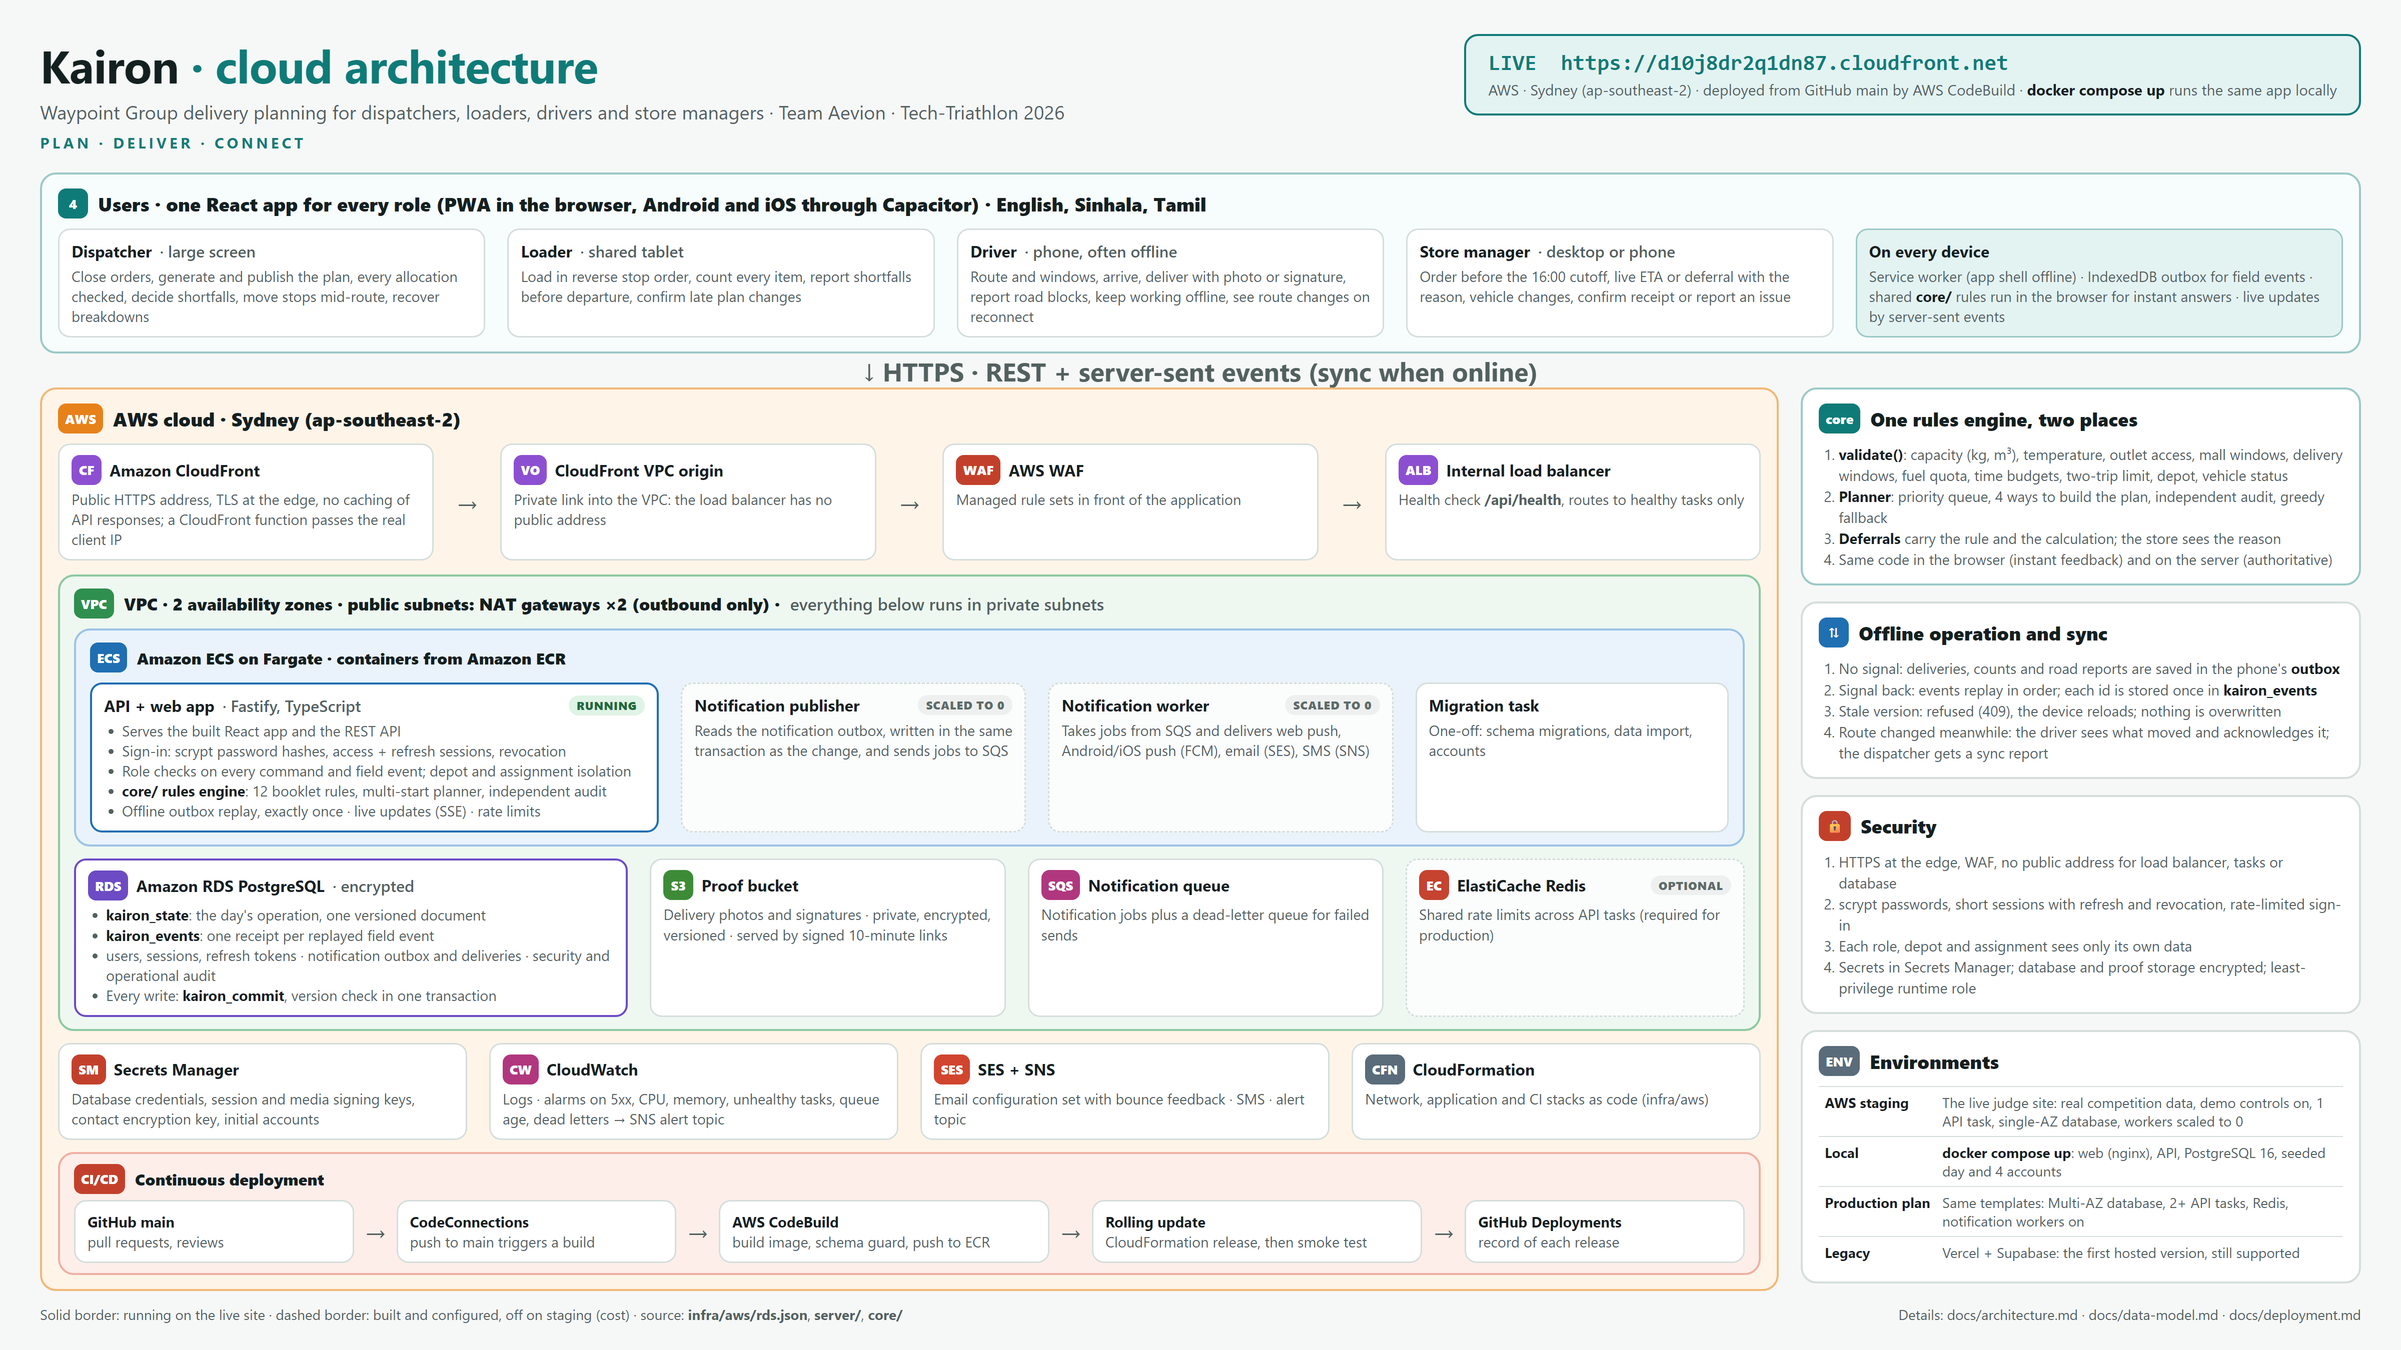
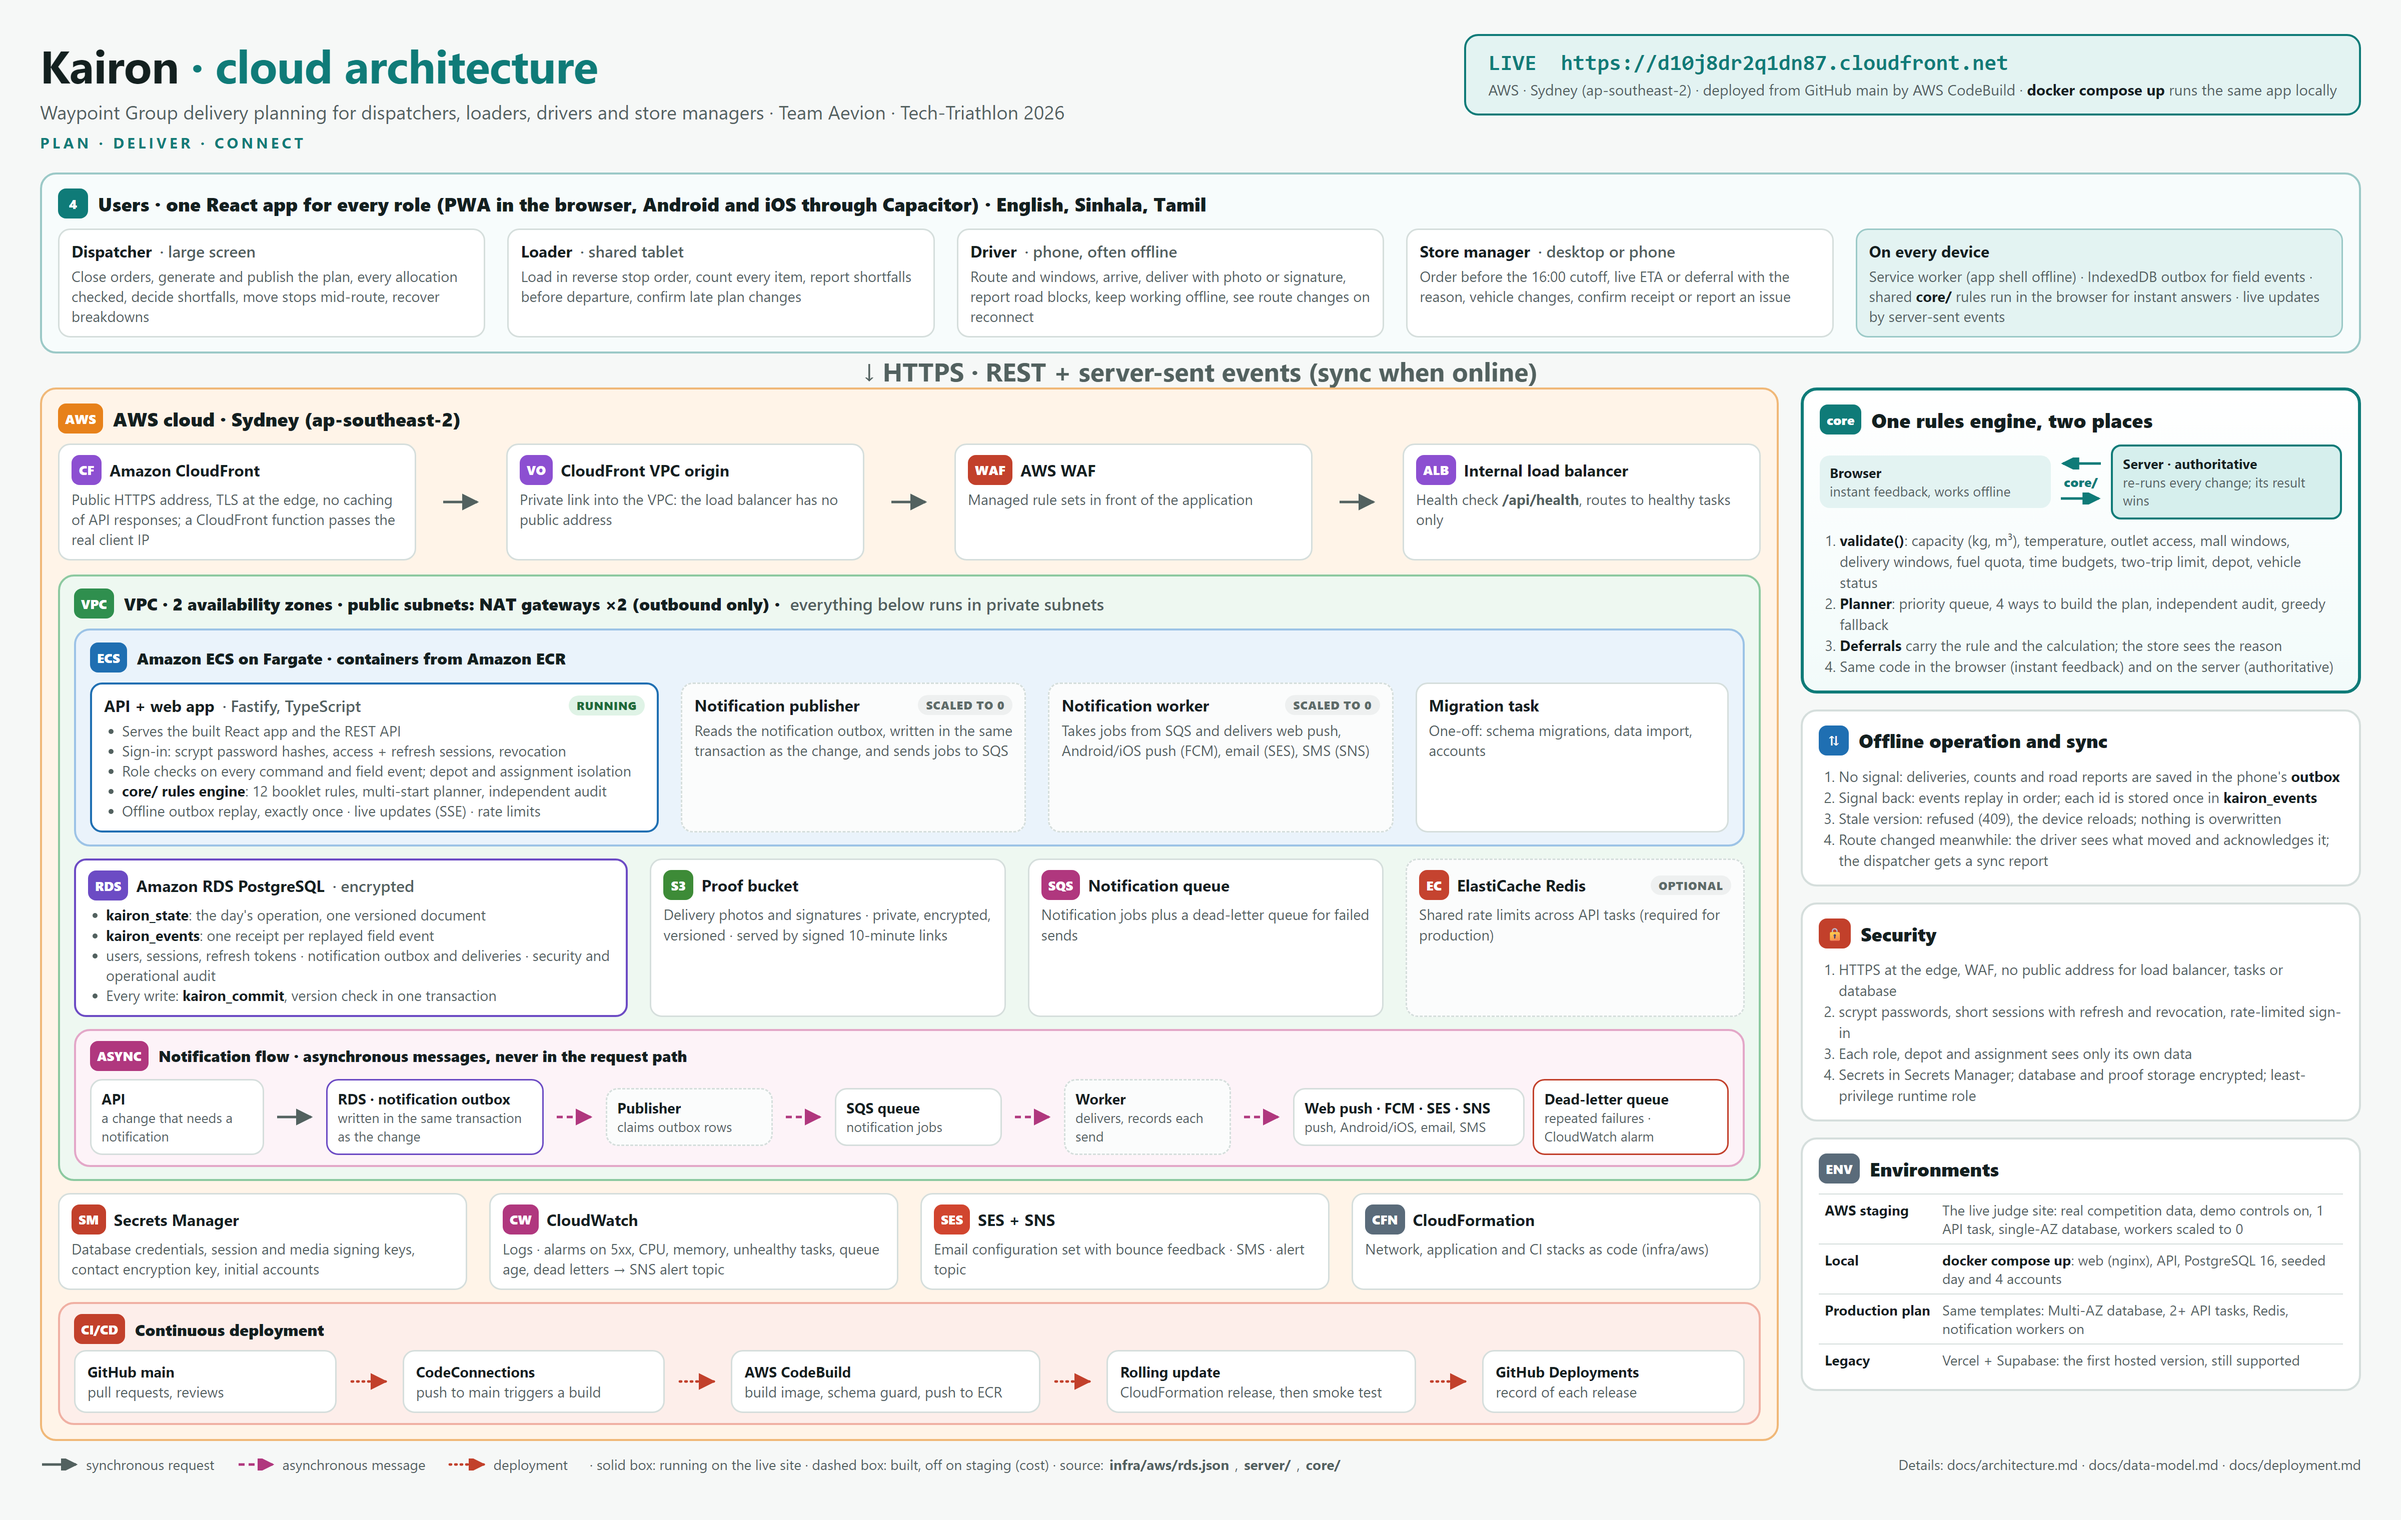
Poster: async notification flow, rules engine in two places, arrow legend
- Notification flow drawn as a chain inside the VPC: API → RDS outbox (same
  transaction) → publisher → SQS → worker → web push / FCM / SES / SNS, with the
  dead-letter queue; dashed arrows for asynchronous messages
- 'One rules engine, two places' panel: core/ → browser (instant, offline) and
  core/ → server (authoritative, its result wins)
- Arrows: solid = synchronous request, dashed = asynchronous message, dotted =
  deployment; legend in the footer

Changed region(s): [[0.0, 0.0311, 1.0, 0.9956], [0.625, 0.0311, 0.9688, 0.0933], [0.8125, 0.9644, 0.9688, 0.9956]]

diff --git a/docs/architecture/kairon-architecture.html b/docs/architecture/kairon-architecture.html
@@ -3,7 +3,7 @@
 <head>
 <meta charset="utf-8">
 <title>Kairon architecture</title>
-<!-- Source of docs/architecture/kairon-architecture.png. Render: chrome --headless --screenshot --window-size=2400,1350 --force-device-scale-factor=2 -->
+<!-- Source of docs/architecture/kairon-architecture.png. Render: chrome --headless --screenshot --window-size=2400,1520 --force-device-scale-factor=2 -->
 <style>
   :root {
     --ink: #13201f; --muted: #52615f; --line: #d5dedc; --bg: #f6f8f7; --card: #ffffff;
@@ -12,7 +12,7 @@
     --gray-soft: #f1f3f3;
   }
   * { box-sizing: border-box; margin: 0; padding: 0; }
-  body { width: 2400px; height: 1350px; background: var(--bg); font-family: 'Segoe UI', Inter, Arial, sans-serif; color: var(--ink); padding: 34px 40px; }
+  body { width: 2400px; height: 1520px; background: var(--bg); font-family: 'Segoe UI', Inter, Arial, sans-serif; color: var(--ink); padding: 34px 40px; }
   .row { display: flex; gap: 22px; }
   h1 { font-size: 46px; letter-spacing: -0.5px; }
   h1 span { color: var(--teal); }
@@ -40,7 +40,26 @@
   table { width: 100%; border-collapse: collapse; font-size: 14px; }
   td { padding: 6px 6px; border-top: 1px solid var(--line); vertical-align: top; color: var(--muted); }
   td:first-child { font-weight: 700; color: var(--ink); white-space: nowrap; }
+  .conn { display: grid; place-items: center; min-width: 46px; }
+  .conn svg { overflow: visible; }
+  .async-row { display: flex; align-items: center; gap: 8px; }
+  .async-row .box { padding: 8px 10px; font-size: 13.5px; }
+  .async-row .box b { font-size: 14.5px; }
+  .eng { border: 3px solid var(--teal); background: linear-gradient(#ffffff, #f2fbfa); }
+  .eng .split { display: grid; grid-template-columns: 1fr auto 1fr; gap: 8px; align-items: center; margin: 4px 0 10px; }
+  .eng .side { border-radius: 10px; padding: 8px 10px; font-size: 13.5px; line-height: 1.35; }
+  .legend { display: flex; gap: 22px; align-items: center; }
+  .legend span { display: inline-flex; align-items: center; gap: 6px; }
 </style>
+<!-- Connectors: solid = synchronous request/data, dashed = asynchronous message, dotted = deployment/control -->
+<svg width="0" height="0" style="position:absolute">
+  <defs>
+    <marker id="h-ink" viewBox="0 0 10 10" refX="9" refY="5" markerWidth="7" markerHeight="7" orient="auto"><path d="M0,0 L10,5 L0,10 z" fill="#52615f"/></marker>
+    <marker id="h-async" viewBox="0 0 10 10" refX="9" refY="5" markerWidth="7" markerHeight="7" orient="auto"><path d="M0,0 L10,5 L0,10 z" fill="#b0377e"/></marker>
+    <marker id="h-ctrl" viewBox="0 0 10 10" refX="9" refY="5" markerWidth="7" markerHeight="7" orient="auto"><path d="M0,0 L10,5 L0,10 z" fill="#c2402b"/></marker>
+    <marker id="h-teal" viewBox="0 0 10 10" refX="9" refY="5" markerWidth="7" markerHeight="7" orient="auto"><path d="M0,0 L10,5 L0,10 z" fill="#0f7b78"/></marker>
+  </defs>
+</svg>
 </head>
 <body>
 
@@ -79,11 +98,11 @@
 
     <div class="row">
       <div class="box" style="flex:1"><h4><span class="chip" style="background:#8c4fd1">CF</span> Amazon CloudFront</h4><p>Public HTTPS address, TLS at the edge, no caching of API responses; a CloudFront function passes the real client IP</p></div>
-      <div class="arrow">→</div>
+      <div class="conn"><svg width="40" height="12"><line x1="2" y1="6" x2="36" y2="6" stroke="#52615f" stroke-width="2.4" marker-end="url(#h-ink)"/></svg></div>
       <div class="box" style="flex:1"><h4><span class="chip" style="background:#8c4fd1">VO</span> CloudFront VPC origin</h4><p>Private link into the VPC: the load balancer has no public address</p></div>
-      <div class="arrow">→</div>
+      <div class="conn"><svg width="40" height="12"><line x1="2" y1="6" x2="36" y2="6" stroke="#52615f" stroke-width="2.4" marker-end="url(#h-ink)"/></svg></div>
       <div class="box" style="flex:1"><h4><span class="chip" style="background:var(--red)">WAF</span> AWS WAF</h4><p>Managed rule sets in front of the application</p></div>
-      <div class="arrow">→</div>
+      <div class="conn"><svg width="40" height="12"><line x1="2" y1="6" x2="36" y2="6" stroke="#52615f" stroke-width="2.4" marker-end="url(#h-ink)"/></svg></div>
       <div class="box" style="flex:1"><h4><span class="chip" style="background:#8c4fd1">ALB</span> Internal load balancer</h4><p>Health check <b>/api/health</b>, routes to healthy tasks only</p></div>
     </div>
 
@@ -121,6 +140,19 @@
         <div class="box" style="flex:1"><h4><span class="chip" style="background:#b0377e">SQS</span> Notification queue</h4><p>Notification jobs plus a dead-letter queue for failed sends</p></div>
         <div class="box off" style="flex:0.95"><h4><span class="chip" style="background:#c5432f">EC</span> ElastiCache Redis<span class="badge opt">OPTIONAL</span></h4><p>Shared rate limits across API tasks (required for production)</p></div>
       </div>
+
+      <div class="panel" style="margin-top:12px; border-color:#e3a7c8; background:#fdf3f8; padding:10px 14px">
+        <div class="ptitle" style="font-size:15.5px; margin-bottom:8px"><span class="chip" style="background:#b0377e">ASYNC</span> Notification flow · asynchronous messages, never in the request path</div>
+        <div class="async-row">
+          <div class="box" style="flex:1.05"><b>API</b><br><span class="muted">a change that needs a notification</span></div><div class="conn"><svg width="40" height="12"><line x1="2" y1="6" x2="36" y2="6" stroke="#52615f" stroke-width="2.4" marker-end="url(#h-ink)"/></svg></div>
+          <div class="box" style="flex:1.35; border-color:var(--data)"><b>RDS · notification outbox</b><br><span class="muted">written in the same transaction as the change</span></div><div class="conn"><svg width="40" height="12"><line x1="2" y1="6" x2="36" y2="6" stroke="#b0377e" stroke-width="2.4" stroke-dasharray="6 4" marker-end="url(#h-async)"/></svg></div>
+          <div class="box off" style="flex:1"><b>Publisher</b><br><span class="muted">claims outbox rows</span></div><div class="conn"><svg width="40" height="12"><line x1="2" y1="6" x2="36" y2="6" stroke="#b0377e" stroke-width="2.4" stroke-dasharray="6 4" marker-end="url(#h-async)"/></svg></div>
+          <div class="box" style="flex:1"><b>SQS queue</b><br><span class="muted">notification jobs</span></div><div class="conn"><svg width="40" height="12"><line x1="2" y1="6" x2="36" y2="6" stroke="#b0377e" stroke-width="2.4" stroke-dasharray="6 4" marker-end="url(#h-async)"/></svg></div>
+          <div class="box off" style="flex:1"><b>Worker</b><br><span class="muted">delivers, records each send</span></div><div class="conn"><svg width="40" height="12"><line x1="2" y1="6" x2="36" y2="6" stroke="#b0377e" stroke-width="2.4" stroke-dasharray="6 4" marker-end="url(#h-async)"/></svg></div>
+          <div class="box" style="flex:1.45"><b>Web push · FCM · SES · SNS</b><br><span class="muted">push, Android/iOS, email, SMS</span></div>
+          <div class="box" style="flex:1.2; border-color:#c2402b"><b>Dead-letter queue</b><br><span class="muted">repeated failures · CloudWatch alarm</span></div>
+        </div>
+      </div>
     </div>
 
     <div class="row" style="margin-top:12px">
@@ -133,10 +165,10 @@
     <div class="panel" style="margin-top:12px; border-color:#f0b0a3; background:var(--red-soft); padding:10px 14px">
       <div class="ptitle" style="font-size:16px; margin-bottom:6px"><span class="chip" style="background:var(--red)">CI/CD</span> Continuous deployment</div>
       <div class="row" style="align-items:center; font-size:14.5px; gap:10px">
-        <div class="box" style="flex:1"><b>GitHub main</b><br><span class="muted">pull requests, reviews</span></div><div class="arrow">→</div>
-        <div class="box" style="flex:1"><b>CodeConnections</b><br><span class="muted">push to main triggers a build</span></div><div class="arrow">→</div>
-        <div class="box" style="flex:1.2"><b>AWS CodeBuild</b><br><span class="muted">build image, schema guard, push to ECR</span></div><div class="arrow">→</div>
-        <div class="box" style="flex:1.2"><b>Rolling update</b><br><span class="muted">CloudFormation release, then smoke test</span></div><div class="arrow">→</div>
+        <div class="box" style="flex:1"><b>GitHub main</b><br><span class="muted">pull requests, reviews</span></div><div class="conn"><svg width="40" height="12"><line x1="2" y1="6" x2="36" y2="6" stroke="#c2402b" stroke-width="2.4" stroke-dasharray="1.5 4" stroke-linecap="round" marker-end="url(#h-ctrl)"/></svg></div>
+        <div class="box" style="flex:1"><b>CodeConnections</b><br><span class="muted">push to main triggers a build</span></div><div class="conn"><svg width="40" height="12"><line x1="2" y1="6" x2="36" y2="6" stroke="#c2402b" stroke-width="2.4" stroke-dasharray="1.5 4" stroke-linecap="round" marker-end="url(#h-ctrl)"/></svg></div>
+        <div class="box" style="flex:1.2"><b>AWS CodeBuild</b><br><span class="muted">build image, schema guard, push to ECR</span></div><div class="conn"><svg width="40" height="12"><line x1="2" y1="6" x2="36" y2="6" stroke="#c2402b" stroke-width="2.4" stroke-dasharray="1.5 4" stroke-linecap="round" marker-end="url(#h-ctrl)"/></svg></div>
+        <div class="box" style="flex:1.2"><b>Rolling update</b><br><span class="muted">CloudFormation release, then smoke test</span></div><div class="conn"><svg width="40" height="12"><line x1="2" y1="6" x2="36" y2="6" stroke="#c2402b" stroke-width="2.4" stroke-dasharray="1.5 4" stroke-linecap="round" marker-end="url(#h-ctrl)"/></svg></div>
         <div class="box" style="flex:1"><b>GitHub Deployments</b><br><span class="muted">record of each release</span></div>
       </div>
     </div>
@@ -145,8 +177,16 @@
   <!-- Right column -->
   <div style="width:560px; display:flex; flex-direction:column; gap:16px">
 
-    <div class="panel" style="border-color:#9bc9c7">
-      <div class="ptitle"><span class="chip" style="background:var(--teal)">core</span> One rules engine, two places</div>
+    <div class="panel eng">
+      <div class="ptitle" style="font-size:20px"><span class="chip" style="background:var(--teal)">core</span> One rules engine, two places</div>
+      <div class="split">
+        <div class="side" style="background:var(--teal-soft)"><b>Browser</b><br><span class="muted">instant feedback, works offline</span></div>
+        <div style="text-align:center; font-weight:800; color:var(--teal); font-size:13px">
+          <svg width="44" height="12" style="transform:rotate(180deg)"><line x1="2" y1="6" x2="40" y2="6" stroke="#0f7b78" stroke-width="2.6" marker-end="url(#h-teal)"/></svg><br>core/<br>
+          <svg width="44" height="12"><line x1="2" y1="6" x2="40" y2="6" stroke="#0f7b78" stroke-width="2.6" marker-end="url(#h-teal)"/></svg>
+        </div>
+        <div class="side" style="background:#d6efed; border:2px solid var(--teal)"><b>Server · authoritative</b><br><span class="muted">re-runs every change; its result wins</span></div>
+      </div>
       <ol>
         <li><b>validate()</b>: capacity (kg, m³), temperature, outlet access, mall windows, delivery windows, fuel quota, time budgets, two-trip limit, depot, vehicle status</li>
         <li><b>Planner</b>: priority queue, 4 ways to build the plan, independent audit, greedy fallback</li>
@@ -188,7 +228,12 @@
 </div>
 
 <div class="row" style="margin-top:14px; font-size:14px; color:var(--muted); justify-content:space-between">
-  <div>Solid border: running on the live site · dashed border: built and configured, off on staging (cost) · source: <b>infra/aws/rds.json</b>, <b>server/</b>, <b>core/</b></div>
+  <div class="legend">
+    <span><svg width="40" height="12"><line x1="2" y1="6" x2="36" y2="6" stroke="#52615f" stroke-width="2.4" marker-end="url(#h-ink)"/></svg> synchronous request</span>
+    <span><svg width="40" height="12"><line x1="2" y1="6" x2="36" y2="6" stroke="#b0377e" stroke-width="2.4" stroke-dasharray="6 4" marker-end="url(#h-async)"/></svg> asynchronous message</span>
+    <span><svg width="40" height="12"><line x1="2" y1="6" x2="36" y2="6" stroke="#c2402b" stroke-width="2.4" stroke-dasharray="1.5 4" stroke-linecap="round" marker-end="url(#h-ctrl)"/></svg> deployment</span>
+    <span>· solid box: running on the live site · dashed box: built, off on staging (cost) · source: <b>infra/aws/rds.json</b>, <b>server/</b>, <b>core/</b></span>
+  </div>
   <div>Details: docs/architecture.md · docs/data-model.md · docs/deployment.md</div>
 </div>
 
